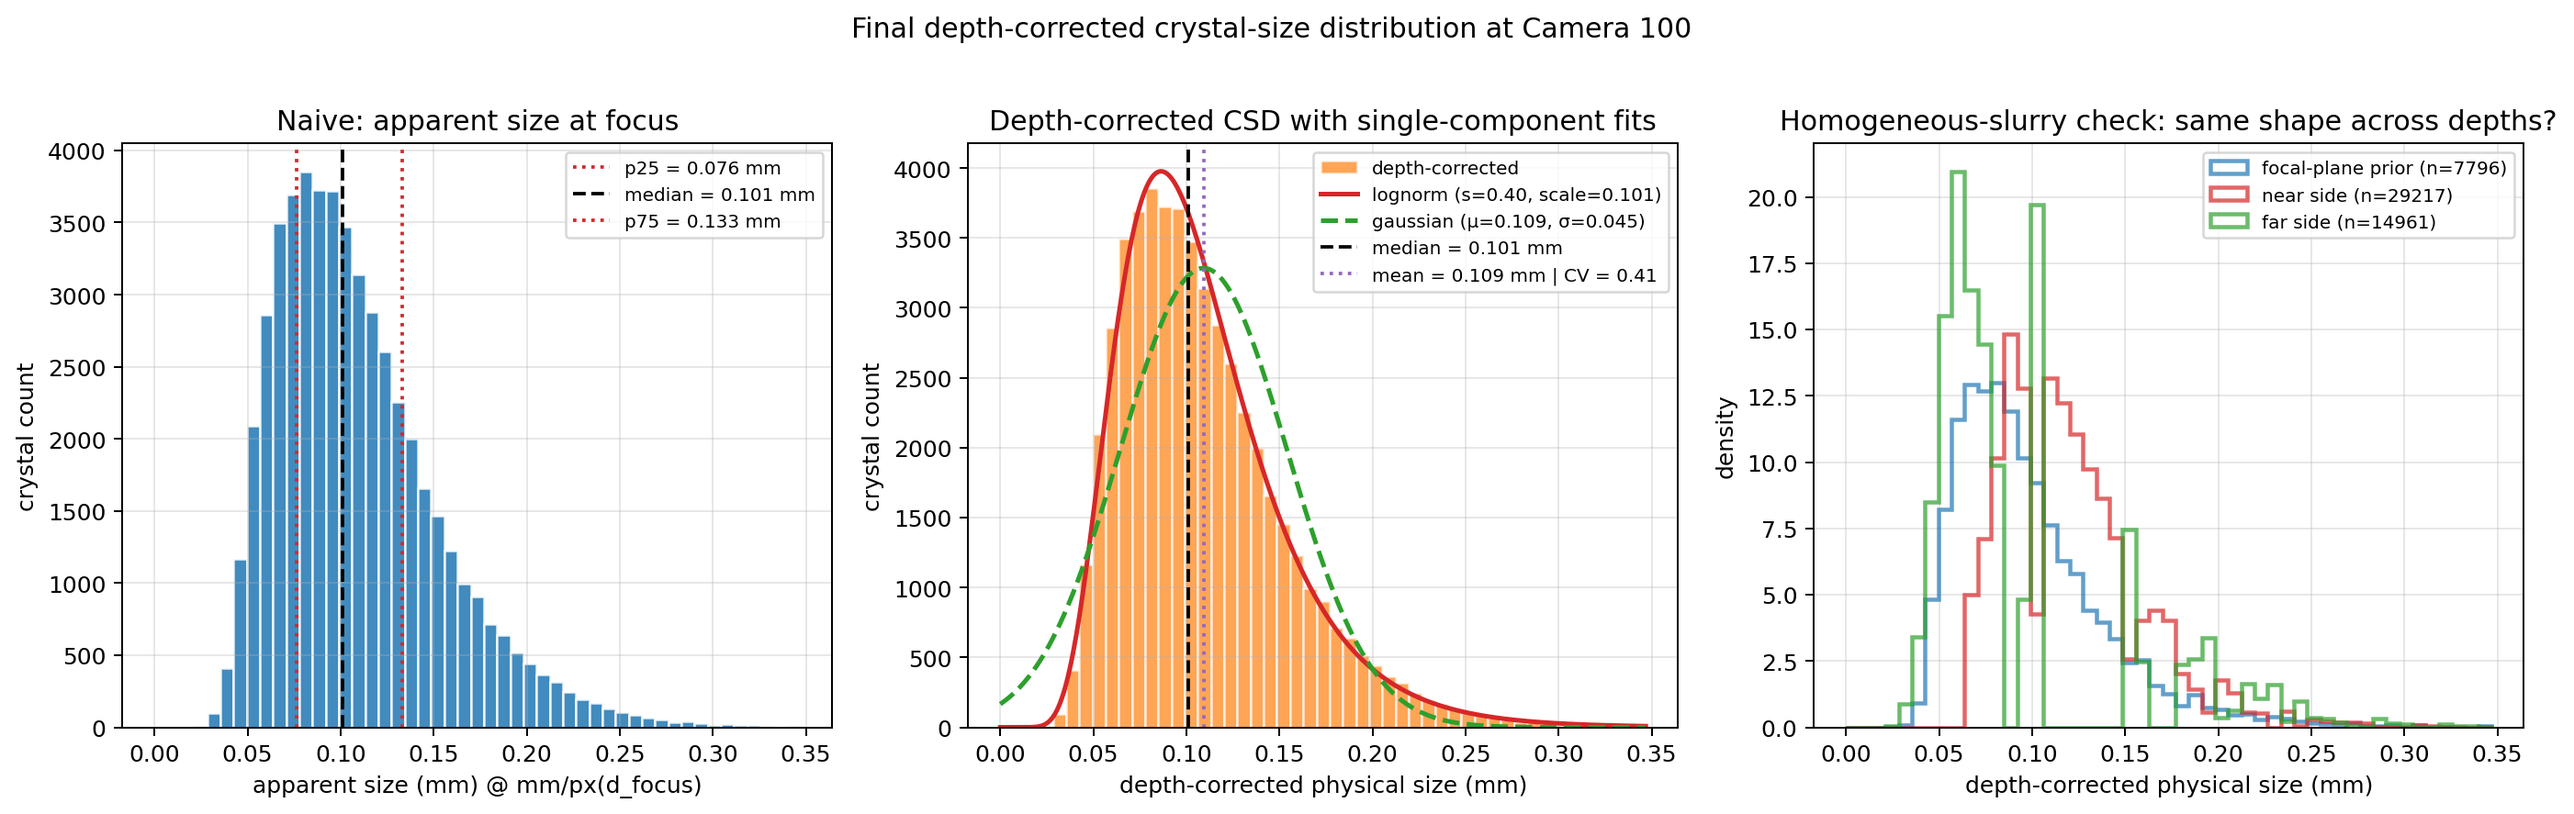
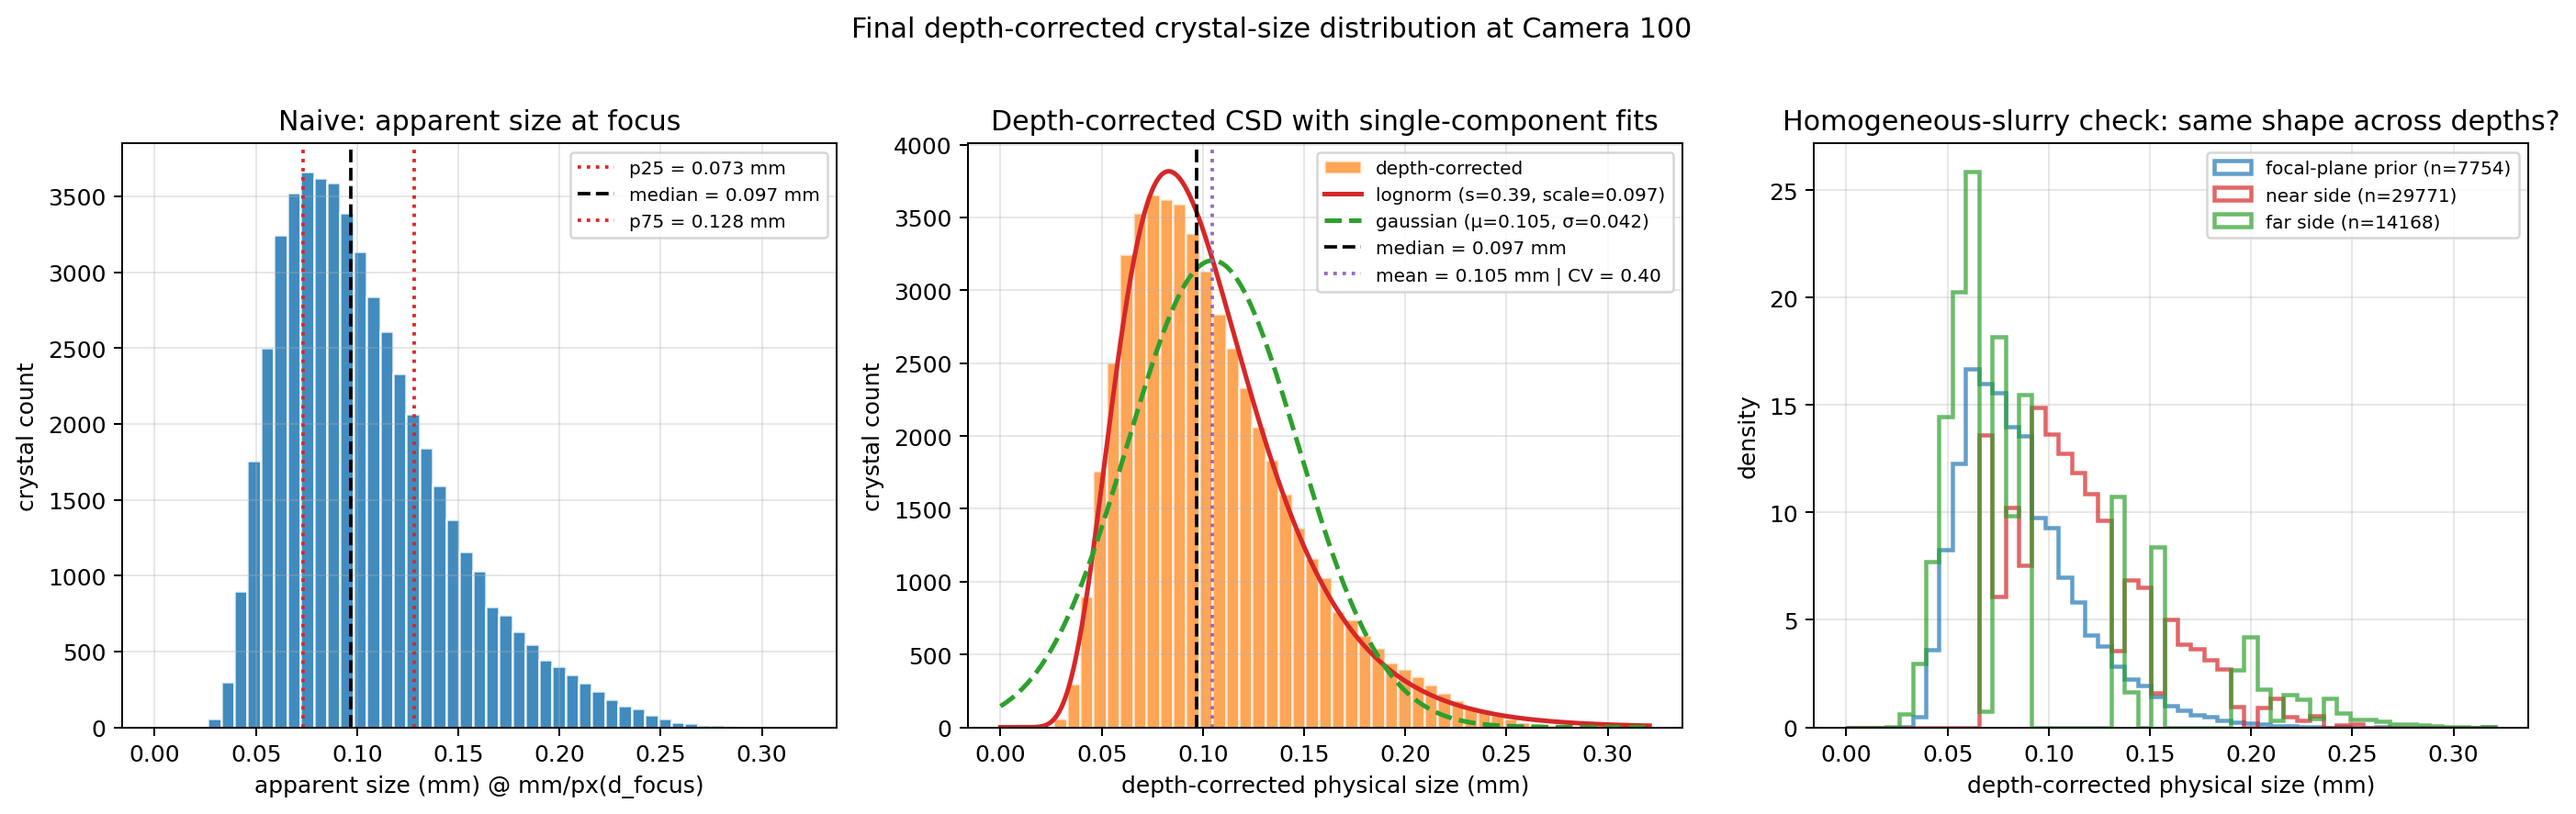
feat(optics): CSD aggregation with single-component log-normal fit

diff --git a/src/optics/csd.py b/src/optics/csd.py
@@ -1,0 +1,329 @@
+"""Crystal Size Distribution (CSD) aggregation.
+
+This module consumes the per-crystal :class:`DisambiguationResult` records
+produced by :mod:`optics.disambiguate` and reduces them to the population-
+level Crystal Size Distribution at Camera 100.
+
+Under the homogeneous-slurry assumption used by the disambiguation step
+(see ``docs/optics/disambiguation_results.md``), the *physical* size
+distribution does not depend on depth: every depth slice should sample
+from the same underlying CSD. The CSD is therefore fitted as a single
+component (log-normal and Gaussian), not as a mixture.
+"""
+
+from __future__ import annotations
+
+from pathlib import Path
+
+import matplotlib.pyplot as plt
+import numpy as np
+from numpy.typing import NDArray
+from scipy import stats
+
+from annotator.types import LayerConfig
+from optics.disambiguate import (
+    DisambiguationResult,
+    detect_observations,
+    disambiguate,
+)
+from optics.model import LensSetup, mm_per_pixel_at
+
+FloatArray = NDArray[np.float64]
+
+
+def aggregate_csd(
+    results: list[DisambiguationResult],
+    lens: LensSetup,
+    d_focus: float,
+) -> dict[str, FloatArray | float]:
+    """Aggregate per-crystal depth-corrected sizes into population CSD stats.
+
+    Computes summary statistics (median, mean, std, CV, quantiles) on the
+    depth-corrected ``physical_size_mm`` field, then fits a log-normal and
+    a Gaussian to the same sample. Single-component fits — the homogeneous-
+    slurry assumption says there should only be one physical mode.
+
+    Returns
+    -------
+    dict with keys
+        ``sizes_mm`` (FloatArray), ``median``, ``mean``, ``std``, ``cv``,
+        ``p05``, ``p25``, ``p75``, ``p95``,
+        ``lognorm_s``, ``lognorm_loc``, ``lognorm_scale``,
+        ``norm_loc``, ``norm_scale``, ``n_total``.
+    """
+    sizes_mm: FloatArray = np.asarray(
+        [r.physical_size_mm for r in results], dtype=np.float64
+    )
+    if sizes_mm.size == 0:
+        raise ValueError("aggregate_csd: no results to aggregate")
+
+    mean = float(np.mean(sizes_mm))
+    std = float(np.std(sizes_mm, ddof=1)) if sizes_mm.size > 1 else 0.0
+    cv = std / mean if mean > 0.0 else float("nan")
+
+    # Lognorm fit requires strictly positive samples.
+    positive = sizes_mm[sizes_mm > 0.0]
+    if positive.size < 2:
+        raise ValueError("aggregate_csd: need >=2 positive sizes for fitting")
+    ln_s, ln_loc, ln_scale = stats.lognorm.fit(positive, floc=0.0)
+    n_loc, n_scale = stats.norm.fit(sizes_mm)
+
+    _ = d_focus, lens  # kept in signature for symmetry / future depth-binning
+    return {
+        "sizes_mm": sizes_mm,
+        "median": float(np.median(sizes_mm)),
+        "mean": mean,
+        "std": std,
+        "cv": cv,
+        "p05": float(np.quantile(sizes_mm, 0.05)),
+        "p25": float(np.quantile(sizes_mm, 0.25)),
+        "p75": float(np.quantile(sizes_mm, 0.75)),
+        "p95": float(np.quantile(sizes_mm, 0.95)),
+        "lognorm_s": float(ln_s),
+        "lognorm_loc": float(ln_loc),
+        "lognorm_scale": float(ln_scale),
+        "norm_loc": float(n_loc),
+        "norm_scale": float(n_scale),
+        "n_total": float(sizes_mm.size),
+    }
+
+
+def _naive_sizes_mm(
+    results: list[DisambiguationResult], lens: LensSetup, d_focus: float
+) -> FloatArray:
+    """Apparent-size-at-focus baseline: every detection scaled by mm/px(d_focus)."""
+    mm_per_px = float(mm_per_pixel_at(lens, d_focus, np.array([d_focus]))[0])
+    return np.asarray(
+        [r.obs.apparent_size_px * mm_per_px for r in results], dtype=np.float64
+    )
+
+
+def fig_csd_final(
+    results: list[DisambiguationResult],
+    lens: LensSetup,
+    d_focus: float,
+    out_path: Path,
+) -> None:
+    """Render the three-panel final CSD figure to ``out_path``."""
+    stats_dict = aggregate_csd(results, lens, d_focus)
+    sizes_mm = np.asarray(stats_dict["sizes_mm"], dtype=np.float64)
+    naive_mm = _naive_sizes_mm(results, lens, d_focus)
+
+    median = float(stats_dict["median"])
+    mean = float(stats_dict["mean"])
+    cv = float(stats_dict["cv"])
+    p25 = float(stats_dict["p25"])
+    p75 = float(stats_dict["p75"])
+    ln_s = float(stats_dict["lognorm_s"])
+    ln_loc = float(stats_dict["lognorm_loc"])
+    ln_scale = float(stats_dict["lognorm_scale"])
+    n_loc = float(stats_dict["norm_loc"])
+    n_scale = float(stats_dict["norm_scale"])
+
+    upper = float(np.quantile(sizes_mm, 0.99) * 1.4)
+    bins = np.linspace(0.0, upper, 50)
+    bin_width = float(bins[1] - bins[0])
+
+    fig, (ax_naive, ax_corr, ax_assump) = plt.subplots(
+        1, 3, figsize=(15.5, 4.8)
+    )
+
+    # Panel 1: naive apparent-size-at-focus
+    ax_naive.hist(
+        naive_mm, bins=bins, color="C0", alpha=0.85, edgecolor="white"
+    )
+    ax_naive.axvline(
+        float(np.quantile(naive_mm, 0.25)),
+        color="C3",
+        linestyle=":",
+        label=f"p25 = {np.quantile(naive_mm, 0.25):.3f} mm",
+    )
+    ax_naive.axvline(
+        float(np.median(naive_mm)),
+        color="k",
+        linestyle="--",
+        label=f"median = {np.median(naive_mm):.3f} mm",
+    )
+    ax_naive.axvline(
+        float(np.quantile(naive_mm, 0.75)),
+        color="C3",
+        linestyle=":",
+        label=f"p75 = {np.quantile(naive_mm, 0.75):.3f} mm",
+    )
+    ax_naive.set_xlabel("apparent size (mm) @ mm/px(d_focus)")
+    ax_naive.set_ylabel("crystal count")
+    ax_naive.set_title("Naive: apparent size at focus")
+    ax_naive.legend(fontsize=8)
+    ax_naive.grid(True, alpha=0.3)
+
+    # Panel 2: depth-corrected + fits
+    counts, edges, _ = ax_corr.hist(
+        sizes_mm,
+        bins=bins,
+        color="C1",
+        alpha=0.7,
+        edgecolor="white",
+        label="depth-corrected",
+    )
+    centres = 0.5 * (edges[1:] + edges[:-1])
+    n_total = float(sizes_mm.size)
+    x_curve = np.linspace(max(bins[0], 1e-6), bins[-1], 400)
+    ln_pdf = stats.lognorm.pdf(x_curve, ln_s, loc=ln_loc, scale=ln_scale)
+    n_pdf = stats.norm.pdf(x_curve, loc=n_loc, scale=n_scale)
+    ax_corr.plot(
+        x_curve,
+        ln_pdf * n_total * bin_width,
+        color="C3",
+        lw=2,
+        label=f"lognorm (s={ln_s:.2f}, scale={ln_scale:.3f})",
+    )
+    ax_corr.plot(
+        x_curve,
+        n_pdf * n_total * bin_width,
+        color="C2",
+        lw=2,
+        linestyle="--",
+        label=f"gaussian (μ={n_loc:.3f}, σ={n_scale:.3f})",
+    )
+    ax_corr.axvline(
+        median, color="k", linestyle="--", label=f"median = {median:.3f} mm"
+    )
+    ax_corr.axvline(
+        mean,
+        color="C4",
+        linestyle=":",
+        label=f"mean = {mean:.3f} mm | CV = {cv:.2f}",
+    )
+    ax_corr.set_xlabel("depth-corrected physical size (mm)")
+    ax_corr.set_ylabel("crystal count")
+    ax_corr.set_title("Depth-corrected CSD with single-component fits")
+    ax_corr.legend(fontsize=8)
+    ax_corr.grid(True, alpha=0.3)
+    _ = counts, centres, p25, p75  # silence unused
+
+    # Panel 3: homogeneous-slurry sanity check (focus / near / far overlay)
+    focus_sizes = np.asarray(
+        [r.physical_size_mm for r in results if r.side == "focus"],
+        dtype=np.float64,
+    )
+    near_sizes = np.asarray(
+        [r.physical_size_mm for r in results if r.side == "near"],
+        dtype=np.float64,
+    )
+    far_sizes = np.asarray(
+        [r.physical_size_mm for r in results if r.side == "far"],
+        dtype=np.float64,
+    )
+    for sample, color, label in (
+        (focus_sizes, "C0", f"focal-plane prior (n={focus_sizes.size})"),
+        (near_sizes, "C3", f"near side (n={near_sizes.size})"),
+        (far_sizes, "C2", f"far side (n={far_sizes.size})"),
+    ):
+        if sample.size == 0:
+            continue
+        ax_assump.hist(
+            sample,
+            bins=bins,
+            density=True,
+            histtype="step",
+            alpha=0.7,
+            color=color,
+            linewidth=1.8,
+            label=label,
+        )
+    ax_assump.set_xlabel("depth-corrected physical size (mm)")
+    ax_assump.set_ylabel("density")
+    ax_assump.set_title("Homogeneous-slurry check: same shape across depths?")
+    ax_assump.legend(fontsize=8)
+    ax_assump.grid(True, alpha=0.3)
+
+    fig.suptitle(
+        "Final depth-corrected crystal-size distribution at Camera 100",
+        y=1.02,
+        fontsize=12,
+    )
+    fig.tight_layout()
+    out_path.parent.mkdir(parents=True, exist_ok=True)
+    fig.savefig(out_path, dpi=180, bbox_inches="tight")
+    plt.close(fig)
+
+
+def main() -> None:
+    """End-to-end CSD aggregation run on the plant video."""
+    config = LayerConfig(
+        num_layers=3,
+        sharpness_weight=0.7,
+        flow_weight=0.3,
+        blur_kernel=15,
+        min_area=80.0,
+        max_area=8000.0,
+        max_aspect_ratio=3.0,
+    )
+    lens = LensSetup(
+        focal_length=35.0,
+        f_number=1.6,
+        extension_tube=45.0,
+        pixel_pitch_um=2.8,
+    )
+    d_focus = 62.2
+
+    print("Detecting crystals (watershed)…")
+    obs = detect_observations(
+        "datasets/2026-02-05 10-36-32.mp4",
+        config,
+        frame_stride=15,
+        max_frames=60,
+        detector="watershed",
+    )
+    print(f"  {len(obs)} detections")
+
+    print("Disambiguating depth…")
+    results, _ = disambiguate(obs, lens, d_focus)
+    print(f"  {len(results)} per-crystal results")
+
+    print("Aggregating CSD…")
+    csd = aggregate_csd(results, lens, d_focus)
+
+    print("\n=== CSD summary statistics ===")
+    for key in (
+        "n_total",
+        "median",
+        "mean",
+        "std",
+        "cv",
+        "p05",
+        "p25",
+        "p75",
+        "p95",
+    ):
+        print(f"  {key:10s}: {float(csd[key]):.4f}")
+
+    print("\n=== Single-component fits ===")
+    print(
+        f"  lognorm: s={float(csd['lognorm_s']):.4f}, "
+        f"loc={float(csd['lognorm_loc']):.4f}, "
+        f"scale={float(csd['lognorm_scale']):.4f}"
+    )
+    print(
+        f"  gaussian: loc={float(csd['norm_loc']):.4f}, "
+        f"scale={float(csd['norm_scale']):.4f}"
+    )
+
+    out_path = Path("docs/optics/figures/14_csd_final.png")
+    fig_csd_final(results, lens, d_focus, out_path)
+    print(f"\nFigure: {out_path}")
+
+    print("\n=== Headline ===")
+    print(f"  median   = {float(csd['median']):.4f} mm")
+    print(f"  mean     = {float(csd['mean']):.4f} mm")
+    print(f"  std      = {float(csd['std']):.4f} mm")
+    print(f"  CV       = {float(csd['cv']):.4f}")
+    print(
+        f"  lognorm  = (s={float(csd['lognorm_s']):.4f}, "
+        f"loc={float(csd['lognorm_loc']):.4f}, "
+        f"scale={float(csd['lognorm_scale']):.4f})"
+    )
+
+
+if __name__ == "__main__":
+    main()
